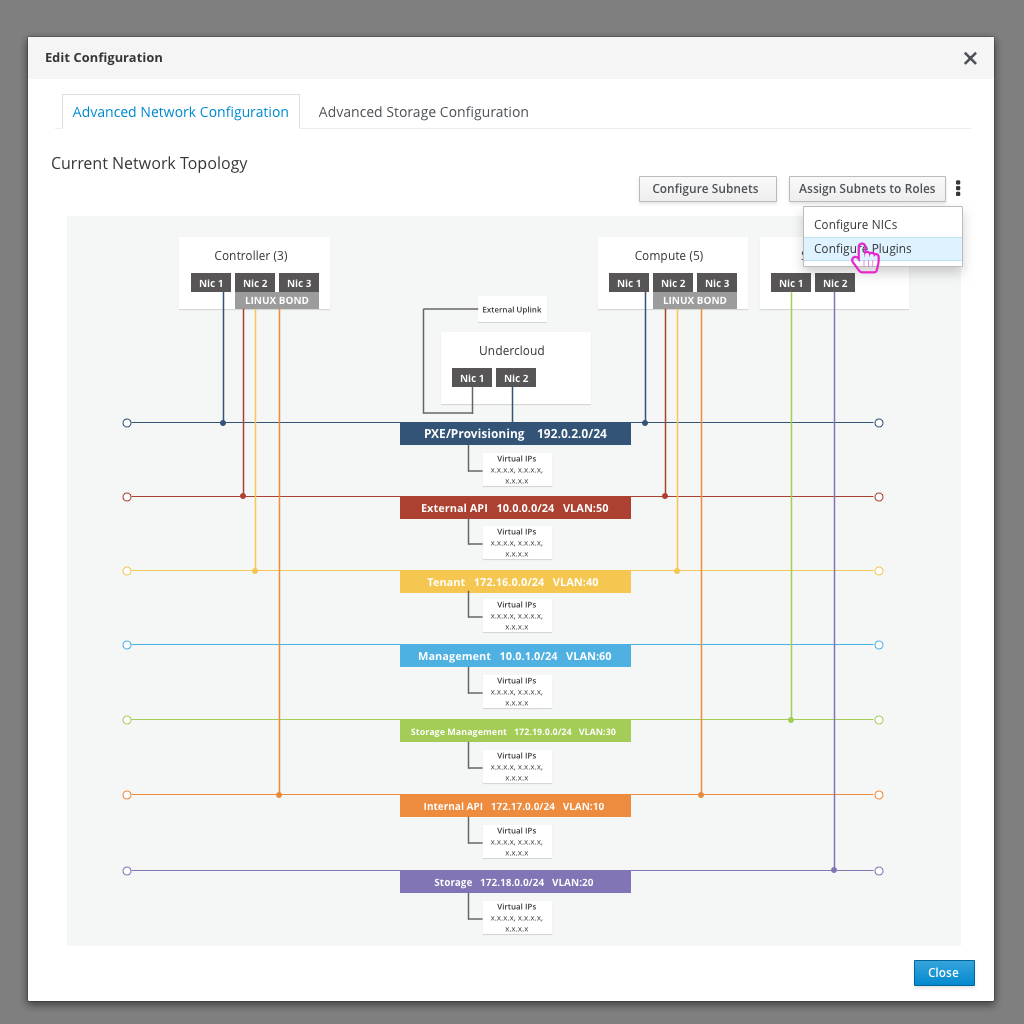
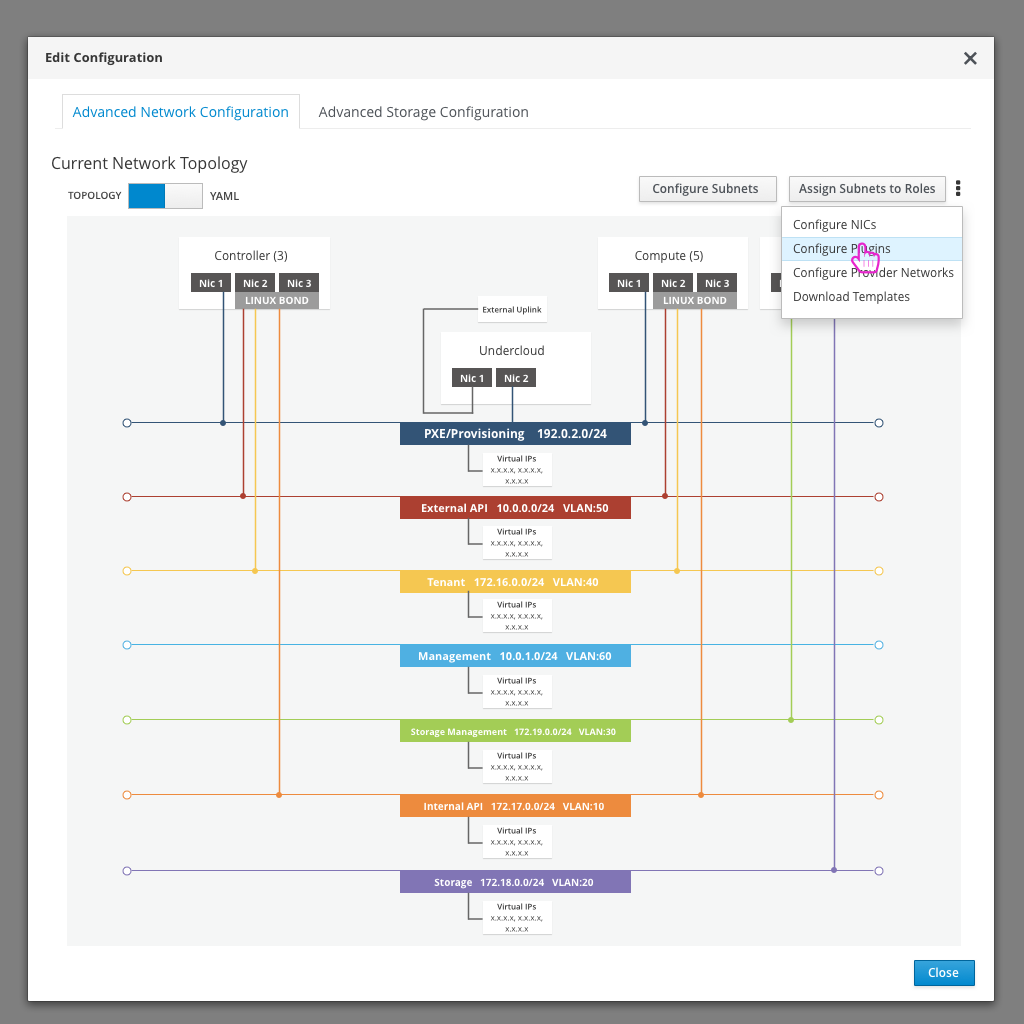
Updates to Network Configuration designs

Changed region(s): [[0.75, 0.2188, 0.9375, 0.3438], [0.125, 0.1562, 0.1875, 0.2188], [0.0625, 0.1875, 0.0938, 0.2188]]

diff --git a/tripleo-ui/3-tripleo-ui-edge-cases/7.advancednetworkconfigurationandtopology.md b/tripleo-ui/3-tripleo-ui-edge-cases/7.advancednetworkconfigurationandtopology.md
@@ -1,5 +1,5 @@
 # Advanced Network Configuration and Network Topology
-![editconfiguration](img/01-Network-Deployment Plan-Regular.png)
+![editconfiguration](img/01-Network-Deployment_Plan.png)
 - An advanced user (or preparation expert) might use the UI to setup advanced Networking configuration. To access the configuration, they can click on the "Edit Configuration" button on the deployment workflow.
 
 ## Network Topology
@@ -9,14 +9,14 @@
 - The user can see the high level subnet information as well.
 
 ## Configure Subnets
-![configuresubnets](img/03-Network-Configure Subnets.png)
+![configuresubnets](img/03-Network-Configure_Subnets.png)
 - The subnet configuration will slide over the topology view. It will allows users to edit the configuration of the base networks, enable or disable the networks, and add/delete their own networks.
 - After making any updates, clicking save will return the user back to the network topology view.
 
 ## Assign Subnets to Roles
 - Clicking the "Assign Subnets to Roles" button will present the user with another modal.
 ![networktopology2](img/04-Network-Edit_Configuration_Modal.png)
-![advancednetworkconfiguration3](img/05-Network-Assign Subnets to Roles.png)
+![advancednetworkconfiguration3](img/05-Network-Assign_Subnets_to_Roles.png)
 - This matrix allows the user to define which roles will be able to access which subnets.
 - After making any updates, clicking save will return the user back to the network topology view.
 
@@ -36,7 +36,7 @@
 ## Configure NICs
 - The kebab will present the user with a number of additional options. One is to "Configure NICs".
 ![networktopology2](img/06-Network-Edit_Configuration_Modal.png)
-![configurenics](img/07-Network-Configure NICs.png)
+![configurenics](img/07-Network-Configure_NICs.png)
 - Clicking on the "Configure NICs" button gives the user the option to define a network profile that will be used for the nodes assigned to each role. The role can be selected at the top of the modal.
 - The user will be able to create and configure NICs, bridges, bonds, VLANs, and routes.
 - After making any updates, clicking save will return the user back to the network topology view.
@@ -44,9 +44,24 @@
 ## Configure Plugins
 - Another option in the kebab is to "Configure Plugins".
 ![networktopology3](img/08-Network-Edit_Configuration_Modal.png)
-![configureplugins](img/09-Network-Configure Plugins.png)
+![configureplugins](img/09-Network-Configure_Plugins.png)
 - The plugin dropdown allows the user to enable or disable plugins.
 - Any plugins that are enabled are added to the accordion below along with any parameters that can be configured.
+
+## Toggle YAML view
+- One option that the user has is to toggle the view from the visual topology to the YAML view.
+![networktopology3](img/10-Toggle_YAML_View.png)
+![configureplugins](img/11-YAML_View.png)
+
+## Configure Provider Networks
+- An additional option is to configure the provider networks.
+- Provider networks will be created after a successful deployment, so they are a bit different from all other networks that are being configured here.
+![networktopology3](img/12-Network-Edit_Configuration_Modal.png)
+![configureplugins](img/13-Configure_Provider_Networks.png)
+
+## Download Templates
+- Note that there is an additional option in the kebab menu to allow the user to download the templates from this view.
+![networktopology3](img/12-Network-Edit_Configuration_Modal.png)
 
 <!---
 - One additional feature in this modal is that the user can filter down the number of networks being shown to reduce the clutter in this view. The user can unselect any networks they want to hide from view.
